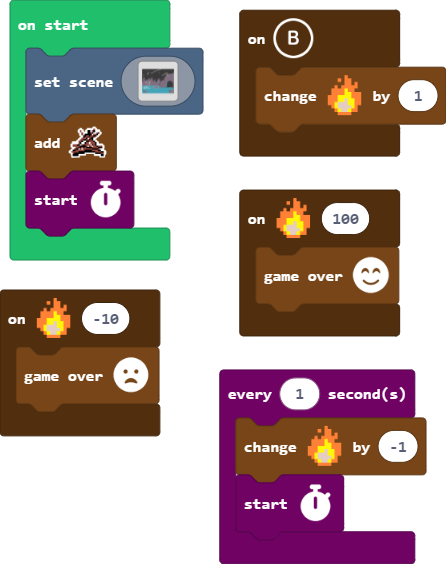
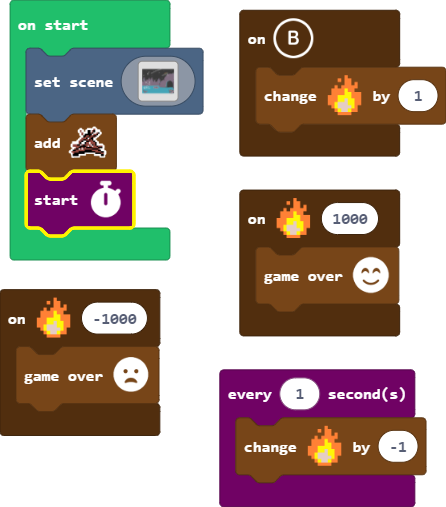
1.2

diff --git a/main.ts b/main.ts
@@ -1,11 +1,11 @@
-sparksjr.onScore(100, function () {
-    sparksjr.fireWin()
+sparksjr.onScore2(-1000, function () {
+    sparksjr.fireLoss()
 })
 sparksjr.onB(function () {
     sparksjr.changeScoreOverride(1)
 })
-sparksjr.onScore2(-10, function () {
-    sparksjr.fireLoss()
+sparksjr.onScore(1000, function () {
+    sparksjr.fireWin()
 })
 scene.setBG(img`
[1 lines of base64/hex data omitted]
@@ -133,5 +133,4 @@ sparksjr.addFire()
 stopwatch.stopJr()
 stopwatch.onUpdateInterval3(1, function () {
     sparksjr.changeScoreOverride(-1)
-    stopwatch.stopJr()
 })
